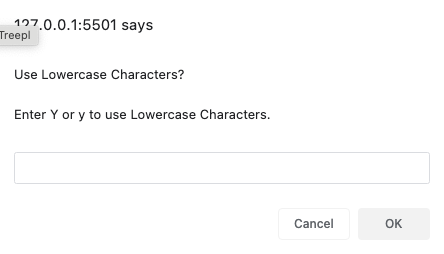
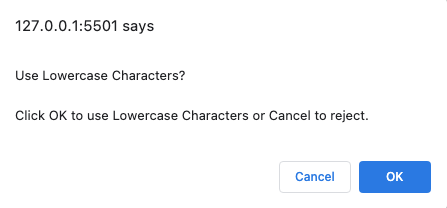
updating prompt code

diff --git a/assets/scripts/script.js b/assets/scripts/script.js
@@ -77,9 +77,8 @@ function generatePassword() {
     for (let i = 0; i < passwordSettings.options.length; i++) {
 
       // Prompt the user to include or reject a character set
-      userChoice = window.prompt("\nUse " + passwordSettings.prompts[i] + "?\n\nEnter Y or y to use " + passwordSettings.prompts[i] + ".\n");
-      // If the user entered a "Y" or "y" add the character set to the choices property in the passwordSettings object
-      if (checkValidOption(userChoice)) {
+
+      if (window.confirm("\nUse " + passwordSettings.prompts[i] + "?\n\nClick OK to use " + passwordSettings.prompts[i] + " or Cancel to reject.\n")) {
         passwordSettings.choices.push(passwordSettings.options[i]);
       }
     }

diff --git a/CHANGELOG.md b/CHANGELOG.md
@@ -30,3 +30,4 @@
 17. add Website Image to README.md
 18. add Navigation images to README.md
 19. add a function to append an s to a work if it is a plural
+20. change window.prompt to window.confirm for selecting charcter sets
